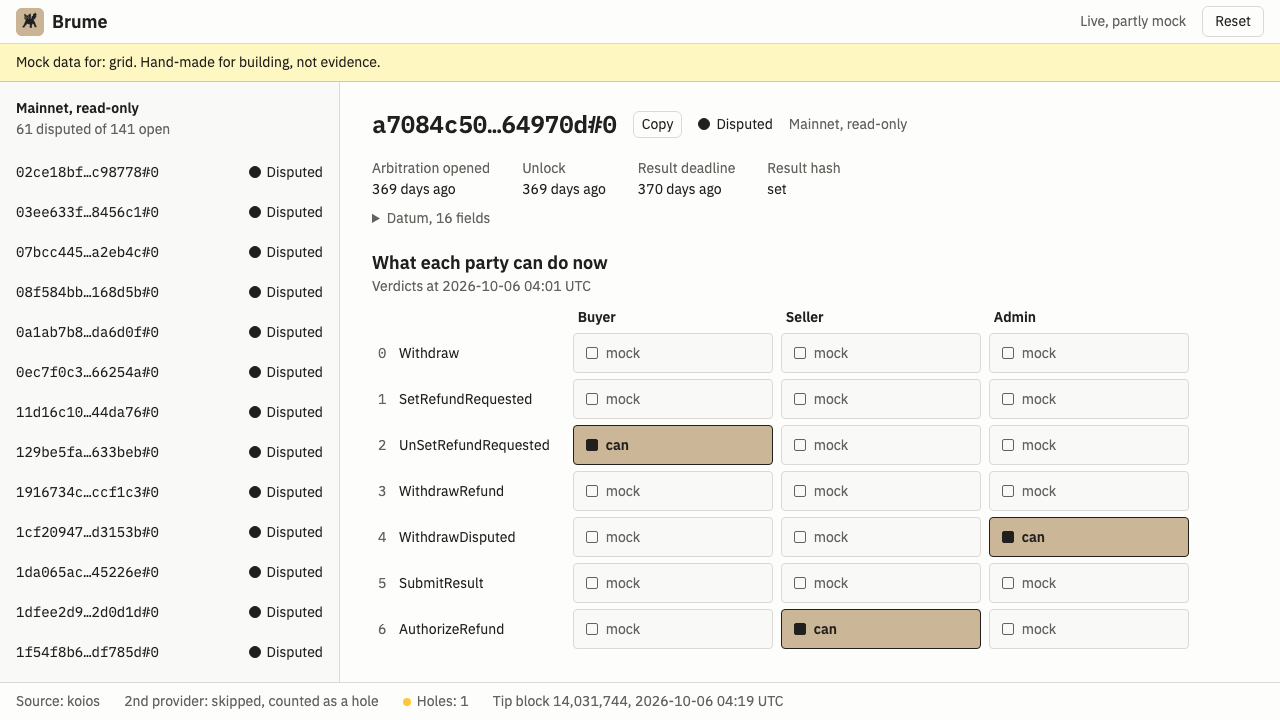
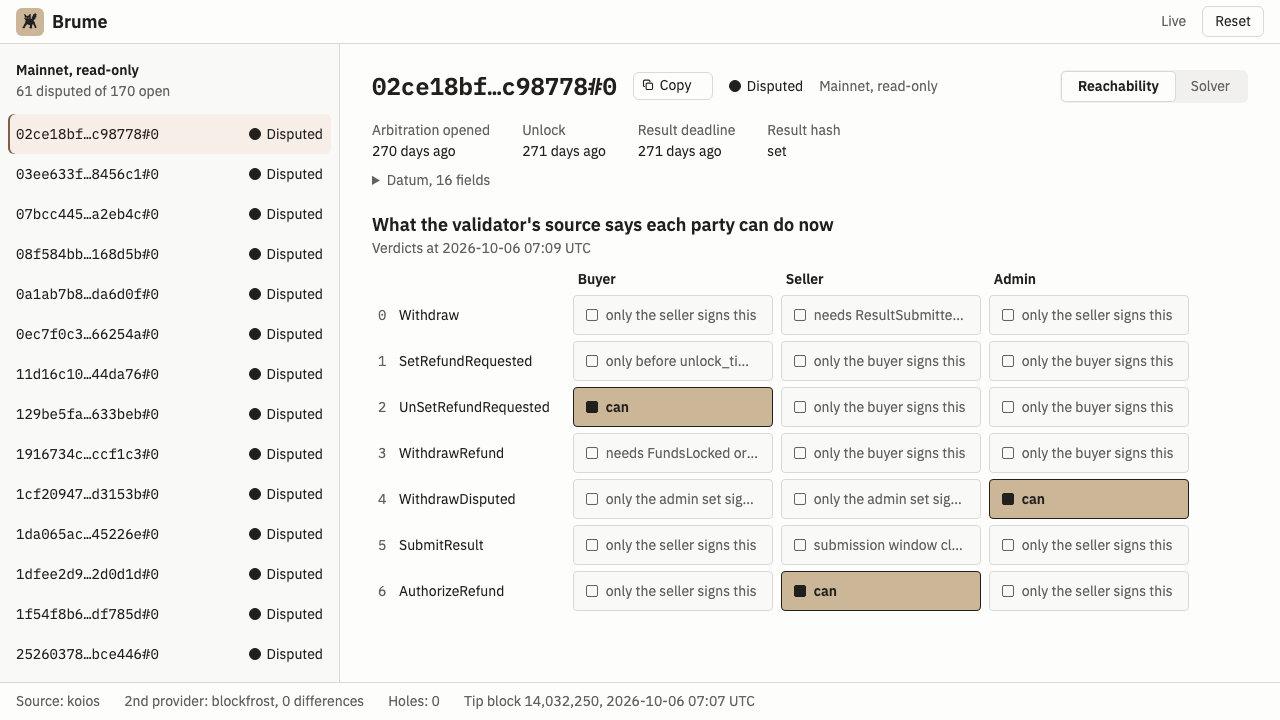
fix(ui): price bank escrows in shares, hedge the grid caption to the validator's source

diff --git a/docs/app.js b/docs/app.js
@@ -21,6 +21,7 @@ const LIVE = {
   census: () => '/api/census',
   bank: () => '/api/bank',
   datum: (ref, net) => `/api/datum?net=${net}&ref=${enc(ref)}`,
+  value: (ref, net) => `/api/datum?net=${net}&ref=${enc(ref)}`, // the same answer carries the escrow's value
   grid: ref => `/api/grid?ref=${enc(ref)}`,
   solver: ref => `/api/solver?ref=${enc(ref)}`,
   proposal: ref => `/api/proposal/${enc(ref)}`,
@@ -232,13 +233,13 @@ function cell(v, i, row) {
   return h('td', {}, h('button', {
     class: v.allowed ? 'cell can' : 'cell', type: 'button', style: `--i:${i}`, 'aria-haspopup': 'dialog',
     onclick: e => openPop(e.currentTarget, v, row),
-  }, h('span', { class: 'glyph', 'aria-hidden': 'true' }), h('span', { class: 'cell-text' }, v.allowed ? 'can' : (v.failed[0] ?? 'not permitted'))))
+  }, h('span', { class: 'glyph', 'aria-hidden': 'true' }), h('span', { class: 'cell-text' }, v.allowed ? 'can' : (v.failed[0] ?? 'not permitted by the source'))))
 }
 
 function renderGrid(grid, row) {
   const byKey = new Map((grid?.verdicts ?? []).map(v => [`${v.redeemer}/${v.role}`, v]))
   return h('table', { class: 'grid' },
-    h('caption', {}, 'What each party can do now', grid && h('small', {}, `Verdicts at ${utc(grid.atMs)}`)),
+    h('caption', {}, 'What the validator\'s source says each party can do now', grid && h('small', {}, `Verdicts at ${utc(grid.atMs)}`)),
     h('thead', {}, h('tr', {}, h('td'), ROLES.map(r => h('th', { scope: 'col' }, cap(r))))),
     h('tbody', {}, REDEEMERS.map((name, i) => h('tr', {},
       h('th', { scope: 'row' }, h('span', { class: 'idx mono' }, i), name.split(/(?=[A-Z])/).flatMap((part, k) => k ? [h('wbr'), part] : [part])), // narrow screens break at the camel-case humps
@@ -651,7 +652,9 @@ function renderPaths(solver, value) {
 async function solverView(row) {
   const solver = await load('solver', row.ref)
   if (solver.ref !== row.ref) return blank('No solver output for this escrow', 'The solver has not priced this reference in this data set.', false)
-  return [renderBands(solver), renderPaths(solver, row.value)]
+  // Bank rows carry no value (only census rows do); without it the path costs would print as quantities, not shares.
+  const value = row.value ?? (live ? await load('value', row.ref, row.network) : null)
+  return [renderBands(solver), renderPaths(solver, value)]
 }
 
 /* Shell */

diff --git a/docs/DESIGN.md b/docs/DESIGN.md
@@ -10,7 +10,7 @@ Sources of truth: `PLAN.md` v3 §2–§4 (wins), the specs outside the repo. Cop
 
 **Who uses it.** The two parties of a stuck escrow, reached through the Coworker's job result (verdict + proposed split + a link into this UI). On the project link: judges and builders of agent-commerce deployments.
 
-**The one thing it must do.** Take a disputed escrow from "stuck" to "settled": show what each party can do now, propose the split the solver says both sides can accept, collect both signatures in the safe order, send both legs, show where the value landed.
+**The one thing it must do.** Take a disputed escrow from "stuck" to "settled": show what the validator's source says each party can do now, propose the split the solver says both sides can accept, collect both signatures in the safe order, send both legs, show where the value landed.
 
 **On camera (PLAN §2).** 0:00–0:20 is Sokosumi (theirs). Everything from 0:20 to 2:35 is this UI.
 
@@ -18,7 +18,7 @@ Sources of truth: `PLAN.md` v3 §2–§4 (wins), the specs outside the repo. Cop
 |---|---|---|
 | 0:20–0:40 | Escrow (mainnet, read-only) → Reachability | a real disputed escrow, 7 redeemers × buyer / seller / admin, permitted cells lit |
 | 0:40–1:40 | Escrow (preprod bank) → Settle | seller proposes the solver's split → buyer accepts and pre-signs the exit (leg 2) → seller concedes (leg 1) → both legs sent → balances land. Hashes visible, small |
-| 1:40–2:10 | Escrow (preprod bank) → Reachability | "Try anyway" on a cell the engine marks not permitted → submitted → validator refuses, prediction matched |
+| 1:40–2:10 | Escrow (preprod bank) → Reachability | "Try anyway" on a cell the engine marks not permitted → submitted → refused, with the stage named ("the validator refused it" only for a phase-2 failure), prediction matched |
 | 2:10–2:35 | Escrow → Solver | executable band, what each side gives up by waiting, fee and exposed party per path, per unit of value |
 
 ## 2. References and what each one gives
@@ -133,7 +133,7 @@ Left-aligned throughout. List 340 px, detail fills the rest. The view switch sit
 |---|---|
 | permitted | tan fill + filled glyph + "can"; until the guard ran on preprod the popover says "the validator's source says" |
 | not permitted | panel fill + hollow glyph + the deciding guard in one line |
-| try anyway: sending → refused as predicted | "Engine predicted refused. Node refused: <guard>." with `--ok` check, raw error one click away |
+| try anyway: sending → refused as predicted | "Engine predicted refused, and <reason worded by stage and refusal phase>." with `--ok` check, raw error one click away |
 | try anyway: accepted (mismatch) | shown in `--bad`, never hidden |
 
 **Settle flow (file-drop signing, the guaranteed path)**
@@ -157,7 +157,7 @@ Left-aligned throughout. List 340 px, detail fills the rest. The view switch sit
 
 `shared/types.ts` lands at M0; these are PLAN v3 §4 shapes, re-checked field by field at M0. In live mode the UI calls the agent's API (`src/agent`, built in the back-end session; the routes below are this side's request to it). In read-only mode the same shapes come from `docs/data/*.json`. Routes take the ref as a query parameter (`?ref=`, URL-encoded) because refs contain `#`. Errors come back as `{"error": "<one readable sentence>"}` and the UI shows the sentence as is. Snapshot mode reads `docs/data/<kind>.json`; mock mode reads `shared/mock/*.mock.json` and needs the repo root served (local only). Every response may be the bare object or wrapped under its kind (`{"grid": …}`), as the mocks are.
 
-**Datum, 16 fields** (SPEC-TRANSACTIONS §0, in order): `buyer`, `seller` (nested addresses), `reference_key`, `reference_signature`, `seller_nonce`, `buyer_nonce`, `collateral_return_lovelace`, `input_hash`, `result_hash`, `pay_by_time`, `submit_result_time`, `unlock_time`, `external_dispute_unlock_time`, `seller_cooldown_time`, `buyer_cooldown_time`, `state`. Times are milliseconds. The header shows `state`, whether `result_hash` is empty, and the four clocks that gate the grid (`submit_result_time`, `unlock_time`, `external_dispute_unlock_time`, both cooldowns) as relative time ("opened 318 days ago") with the UTC timestamp on hover; the rest sits in the datum disclosure.
+**Datum, 16 fields** (SPEC-TRANSACTIONS §0, in order): `buyer`, `seller` (nested addresses), `reference_key`, `reference_signature`, `seller_nonce`, `buyer_nonce`, `collateral_return_lovelace`, `input_hash`, `result_hash`, `pay_by_time`, `submit_result_time`, `unlock_time`, `external_dispute_unlock_time`, `seller_cooldown_time`, `buyer_cooldown_time`, `state`. Times are milliseconds. The header shows `state`, whether `result_hash` is empty, and the four clocks that gate the grid (`submit_result_time`, `unlock_time`, `external_dispute_unlock_time`, both cooldowns) as relative time ("opened N days ago", computed from the pinned time) with the UTC timestamp on hover; the rest sits in the datum disclosure.
 
 | View | Consumes | Live route (proposal, B) |
 |---|---|---|
